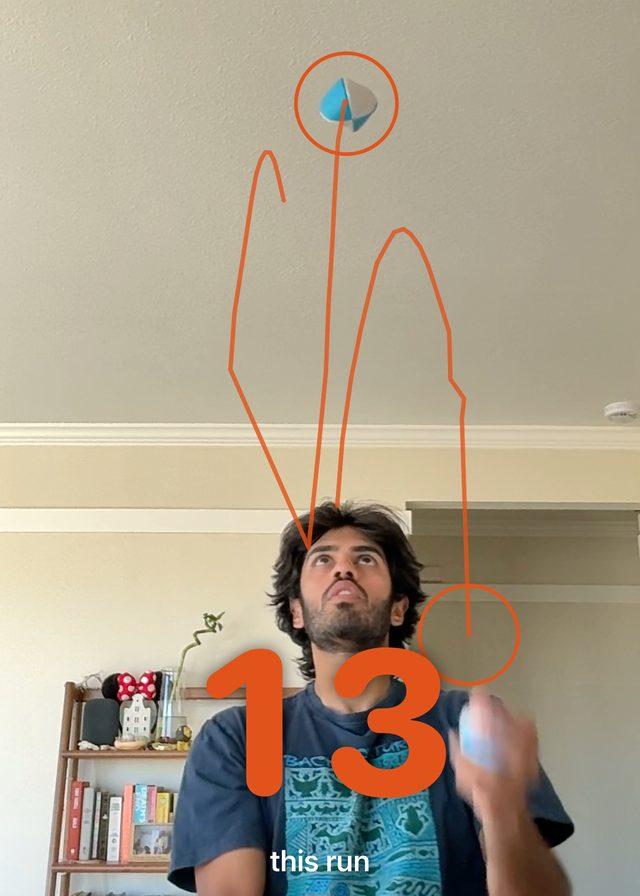
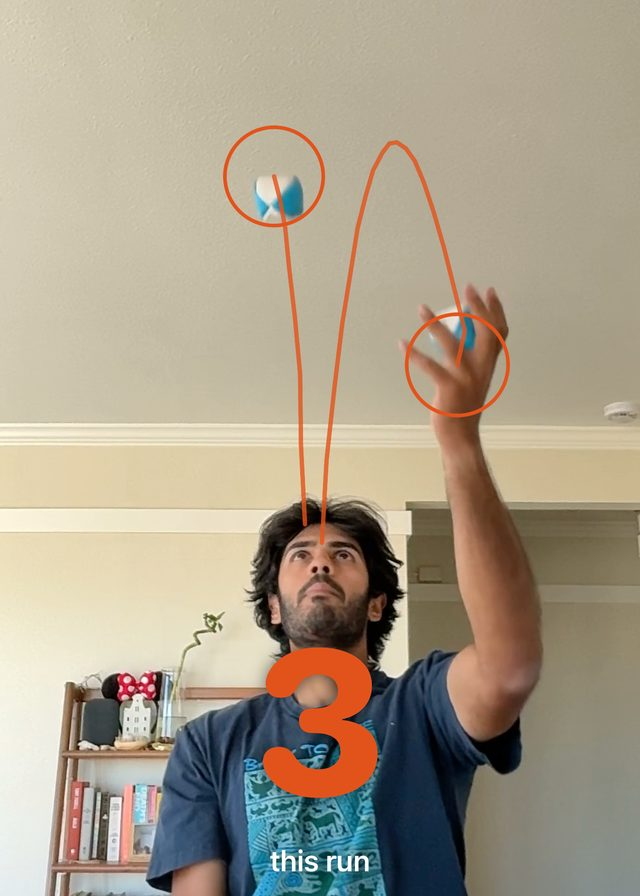
README: swap the juggling screenshot

Changed region(s): [[0.2188, 0.0625, 0.9062, 1.0], [0.3438, 0.3125, 0.375, 0.4375], [0.5312, 0.0312, 0.5625, 0.0625]]

diff --git a/README.md b/README.md
@@ -1,6 +1,6 @@
 # Juggle Tracker
 
-<p align="center"><img src=".github/juggling.jpg" width="320" alt="Juggling three balls; the app circles each detected ball, traces its arc, and shows the throw count for this run (13)"></p>
+<p align="center"><img src=".github/juggling.jpg" width="320" alt="Juggling three balls; the app circles each detected ball, traces its arc, and shows the throw count for this run (3)"></p>
 
 Counts juggling throws from a camera. A small YOLO11n detector finds the balls in each frame. A
 tracker follows each ball and counts one throw at the top of every arc. A run ends when the throws
